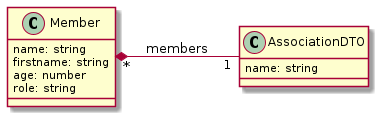
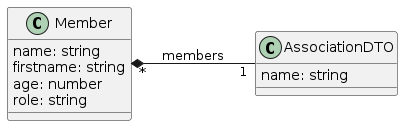
Update class diagrams

diff --git a/developpement.md b/developpement.md
@@ -105,7 +105,7 @@ en tant que "votant" (voters) sur le procès verbal correspondant.
 
 La relation entre les trois entités `Minutes`, `User` et `Association` est décrite par le diagramme de classes ci-dessous:
 
-![](pictures/verbal_process_classes.png)
+![](pictures/minutes_classes.png)
 
 De la même manière, voici la classe de données d'entrées pour la création des `Minutes` :
 
